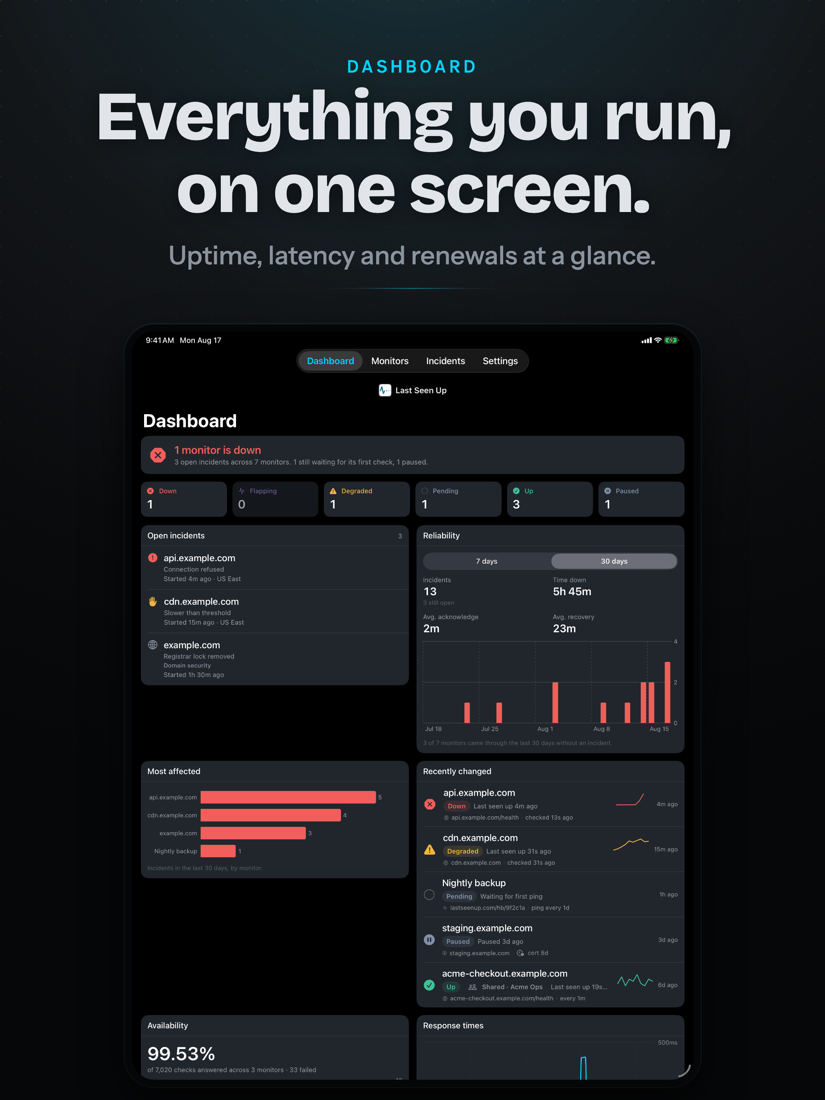
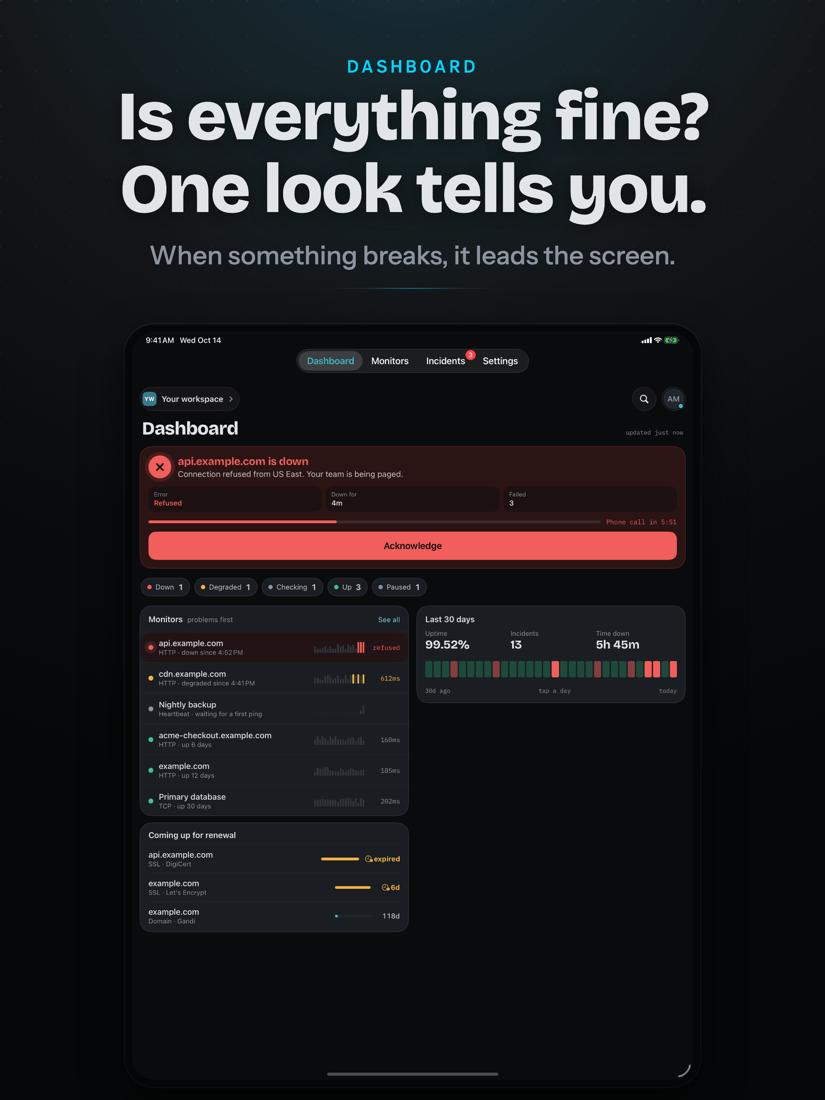
Update marketing images and alt text for iPhone and Apple Watch

diff --git a/README.md b/README.md
@@ -15,7 +15,7 @@ to your phone.
 ### iPhone
 
 <p align="center">
-  <img src="marketing/iphone-1.png" alt="The dashboard: status tiles, open incidents and reliability" width="22%" />
+  <img src="marketing/iphone-1.png" alt="The dashboard: the open incident first, then every monitor worst first" width="22%" />
   <img src="marketing/iphone-2.png" alt="The monitors list, worst first" width="22%" />
   <img src="marketing/iphone-3.png" alt="A monitor's uptime and latency history" width="22%" />
   <img src="marketing/iphone-4.png" alt="An open incident, with acknowledge and timeline" width="22%" />
@@ -31,7 +31,7 @@ to your phone.
 ### Apple Watch
 
 <p align="center">
-  <img src="marketing/watch-1.png" alt="The monitor roster on Apple Watch" width="20%" />
+  <img src="marketing/watch-1.png" alt="Apple Watch: the outage first, with its countdown and Acknowledge" width="20%" />
 </p>
 
 ---
